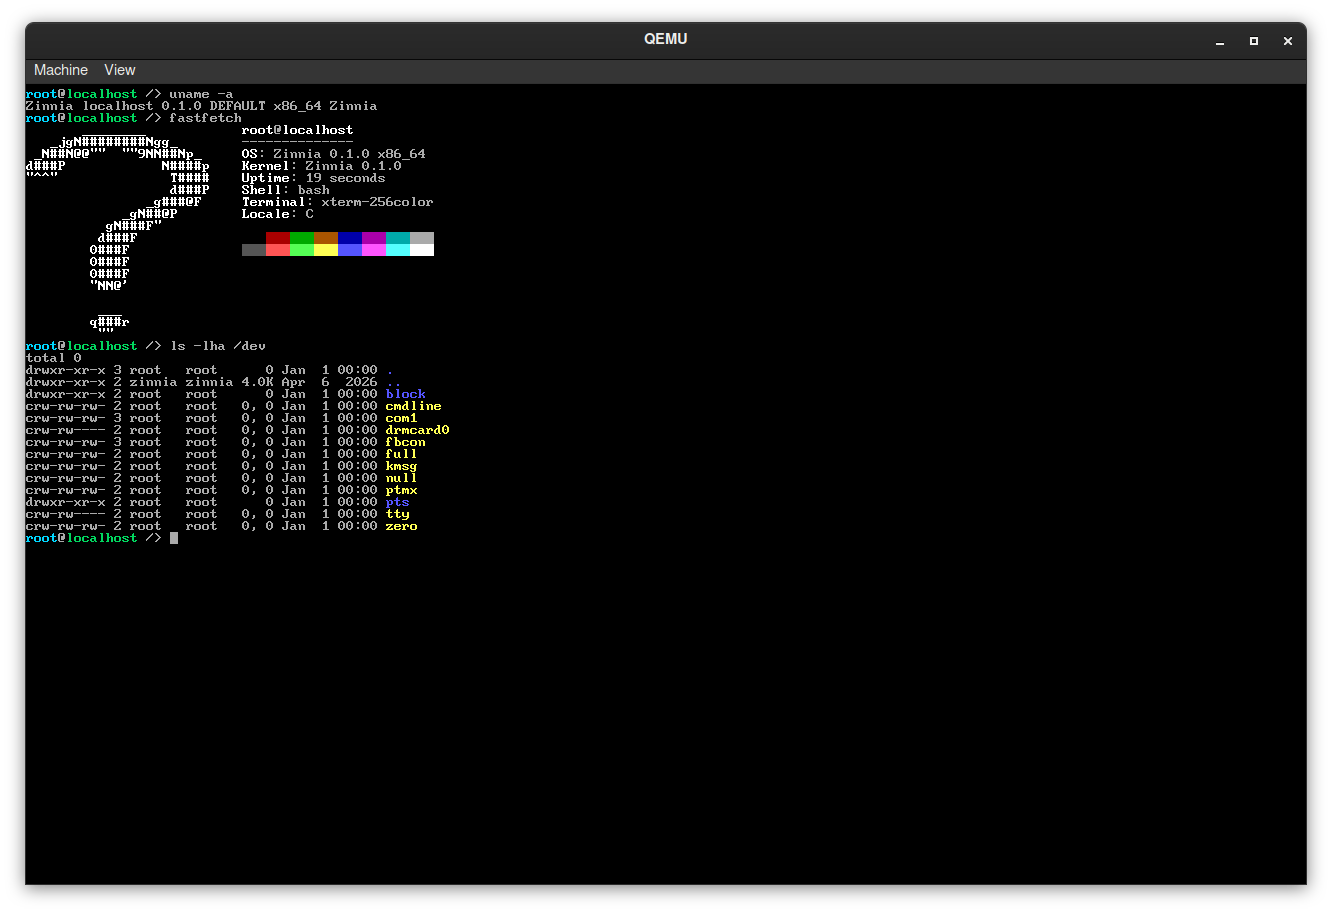
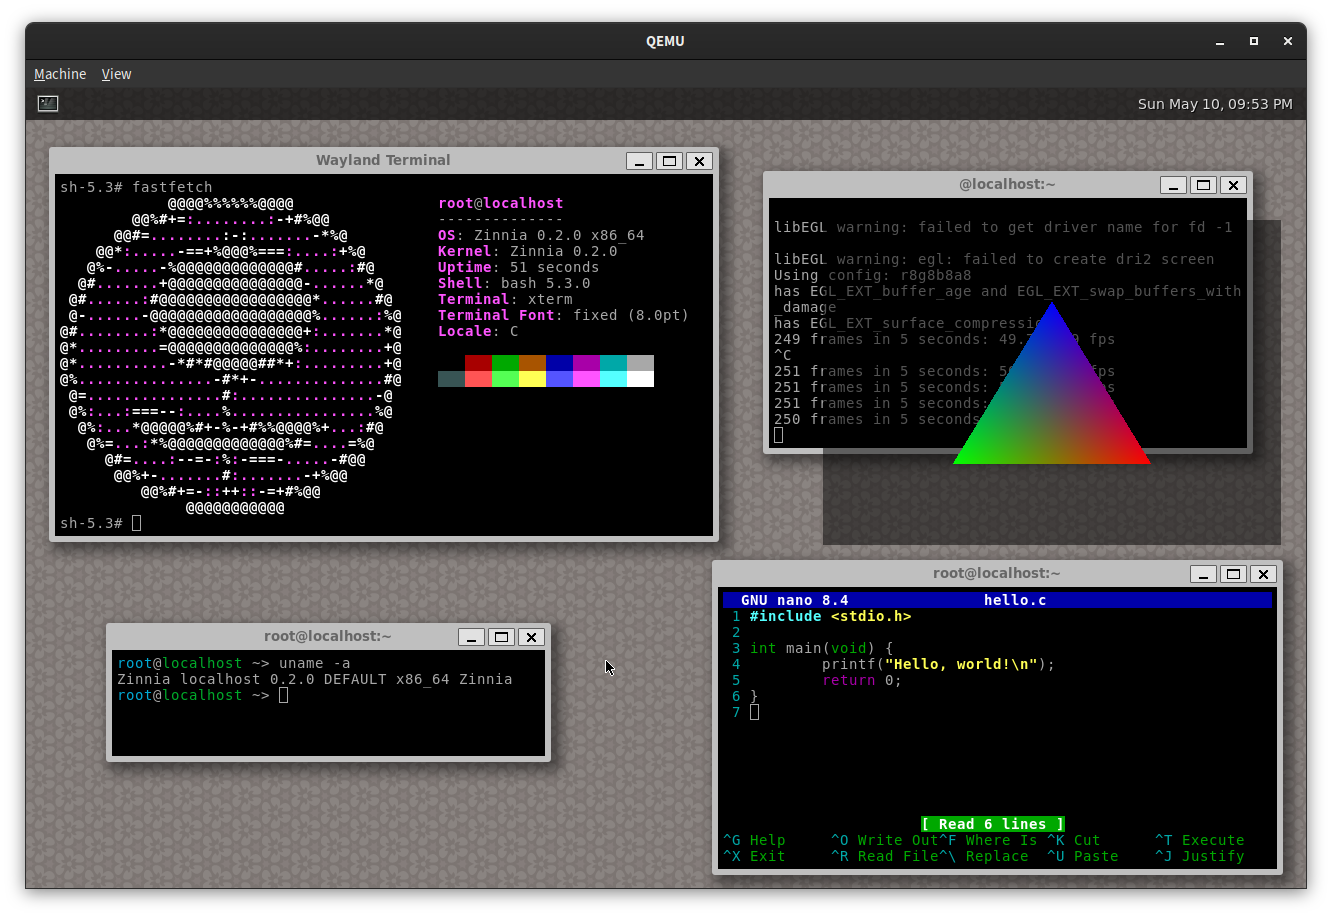
meta: Update screenshot and README

diff --git a/README.md b/README.md
@@ -7,10 +7,12 @@
 ![GitHub Actions Workflow Status](https://img.shields.io/github/actions/workflow/status/zinnia-os/zinnia/ci.yml)
 ![GitHub Issues or Pull Requests](https://img.shields.io/github/issues/zinnia-os/zinnia?style=flat)
 
-Zinnia is a modular 64-bit BSD-like kernel written in Rust.
-It aims for full compatibility with POSIX 2024.
+Zinnia is a modular 64-bit Unix-like kernel written in Rust.
 
 <img src="screenshot.png"/>
+
+The kernel implements most POSIX interfaces, and some BSD/Linux extensions like
+epoll and timerfd. It also implements DRM and evdev drivers for rendering and input.
 
 > [!NOTE]
 > This repository contains only the kernel and drivers.